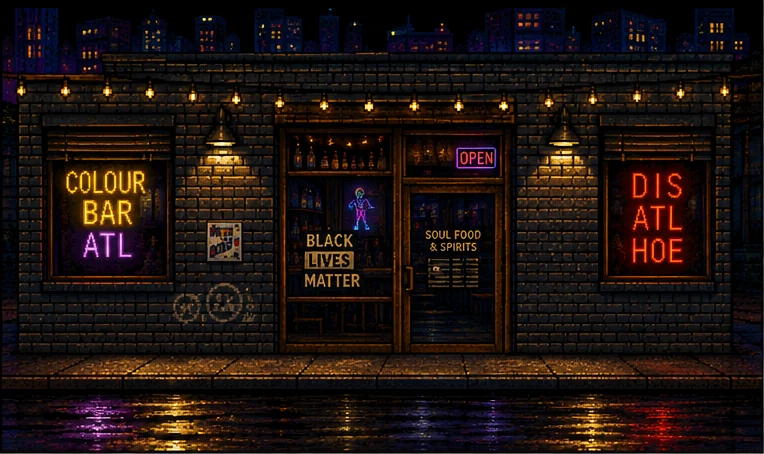
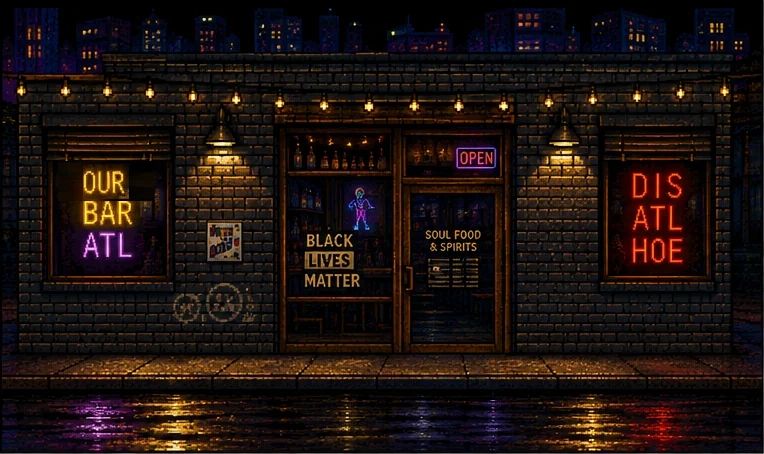
Plant characters on the pavement; fix COLOUR -> OUR on the Edgewood sign
FLOATING — diagnosed, and it was not the sprite metadata. Sampling the
sheet's bottom rows showed the shoes end at y=235 and rows 236-237 are a
baked contact shadow that survived background removal, so `fit.b` overshot
by ~1px on screen. Real but far too small to be what was visible.

The actual cause: collision puts the feet exactly on the tile's TOP EDGE,
which is arithmetically right and visually wrong. The sidewalk cap is the
pavement's top surface receding in perspective, so its top edge is the FAR
side of the pavement — feet planted there read as balancing on a kerb lip.
Sprites are now drawn FOOTPLANT (cap depth + 3) below the collision surface,
which sets them on the pavement. Collision is untouched; this is purely how
it reads. Cast shadows sink by the same amount or they detach.

Edgewood sign now reads OUR BAR ATL — the ChatGPT render had produced
"COLOUR". The COLOUR row is refilled from a narrow clean column of the
sign's own background at the SAME HEIGHT, stretched across, so the sign's
vertical falloff is preserved, and OUR is re-centred under BAR.

Kept assets/backgrounds/edgewood/reference.orig.png as a backup — assets/ is
gitignored, so an in-place edit there has no history to fall back on. A first
attempt tiled a fill patch sampled between COLOUR and BAR and smeared BAR's
glyphs across the sign; recovery was only possible because dist/ still held
the pre-edit build output.

Changed region(s): [[0.0602, 0.37, 0.2107, 0.4626]]

diff --git a/src/render/lighting.js b/src/render/lighting.js
@@ -19,6 +19,10 @@
 
 import { T, FLOOR_R } from '../world/tilemap.js';
 
+// Must match FOOTPLANT in render/renderer.js — shadows sink with the feet or
+// they visibly detach from the character standing on them.
+const FOOTPLANT = Math.round(T * 0.28) + 3;
+
 // Street-level practicals repeat at this spacing in WORLD units. It is
 // deliberately tied to the backdrop plate's own tiling period so the pools
 // on the road line up with the lit shopfronts/canopies painted behind them
@@ -105,7 +109,7 @@ export function createLighting(ctx) {
     const lit = litness(cx);
 
     // airborne characters cast a smaller, fainter, offset shadow
-    const groundWorldY = FLOOR_R * T;
+    const groundWorldY = FLOOR_R * T + FOOTPLANT;
     const air = Math.max(0, Math.min(1, (groundWorldY - feet) / 260));
     const alpha = (0.14 + lit * 0.30) * (1 - air * 0.65);
     if (alpha <= 0.02) return;
@@ -197,9 +201,9 @@ export function createLighting(ctx) {
   // shrinks and softens the shadow exactly as it would in life.
   function drawPropShadow(item, drawY, lift) {
     const cx = item.x + item.w / 2;
-    const groundWorldY = FLOOR_R * T;
+    const groundWorldY = FLOOR_R * T + FOOTPLANT;
     // where the prop actually sits, ignoring the bob
-    const rest = item.y + item.h;
+    const rest = item.y + item.h + FOOTPLANT;
     if (rest > groundWorldY + 40) return; // on a ledge we don't model — skip
 
     const lamp = nearestLampX(cx);

diff --git a/src/render/renderer.js b/src/render/renderer.js
@@ -26,6 +26,16 @@ const SIDEWALK_LIT = '#a8a69d';
 const CURB = '#5c5a55';
 const FRONT_FACE_H = 13; // world units of 2.5D depth on floating platforms
 
+// FOOTPLANT — how far below the collision surface a character is DRAWN.
+//
+// Collision puts the feet exactly on the tile's top edge, which is
+// arithmetically right and visually wrong: the sidewalk cap is the pavement's
+// top surface receding in perspective, so its top edge is the FAR side of the
+// pavement, not the near one. Feet planted there read as balancing on a kerb
+// lip — the "floating" look. Sinking the draw by the cap's depth puts them on
+// the pavement instead. Collision is untouched; this is purely how it reads.
+const FOOTPLANT = Math.round(T * 0.28) + 3;
+
 export function createRenderer(ctx, canvas) {
   const lighting = createLighting(ctx);
 
@@ -226,7 +236,7 @@ export function createRenderer(ctx, canvas) {
     const scale = drawH / cellH;
     const drawW = cellW * scale; // aspect preserved
 
-    const feetY = entity.y + colliderH;
+    const feetY = entity.y + colliderH + FOOTPLANT;
     const dx = entity.x + entity.w / 2 - drawW / 2;
     const dy = feetY - drawH * fit.b;
 
